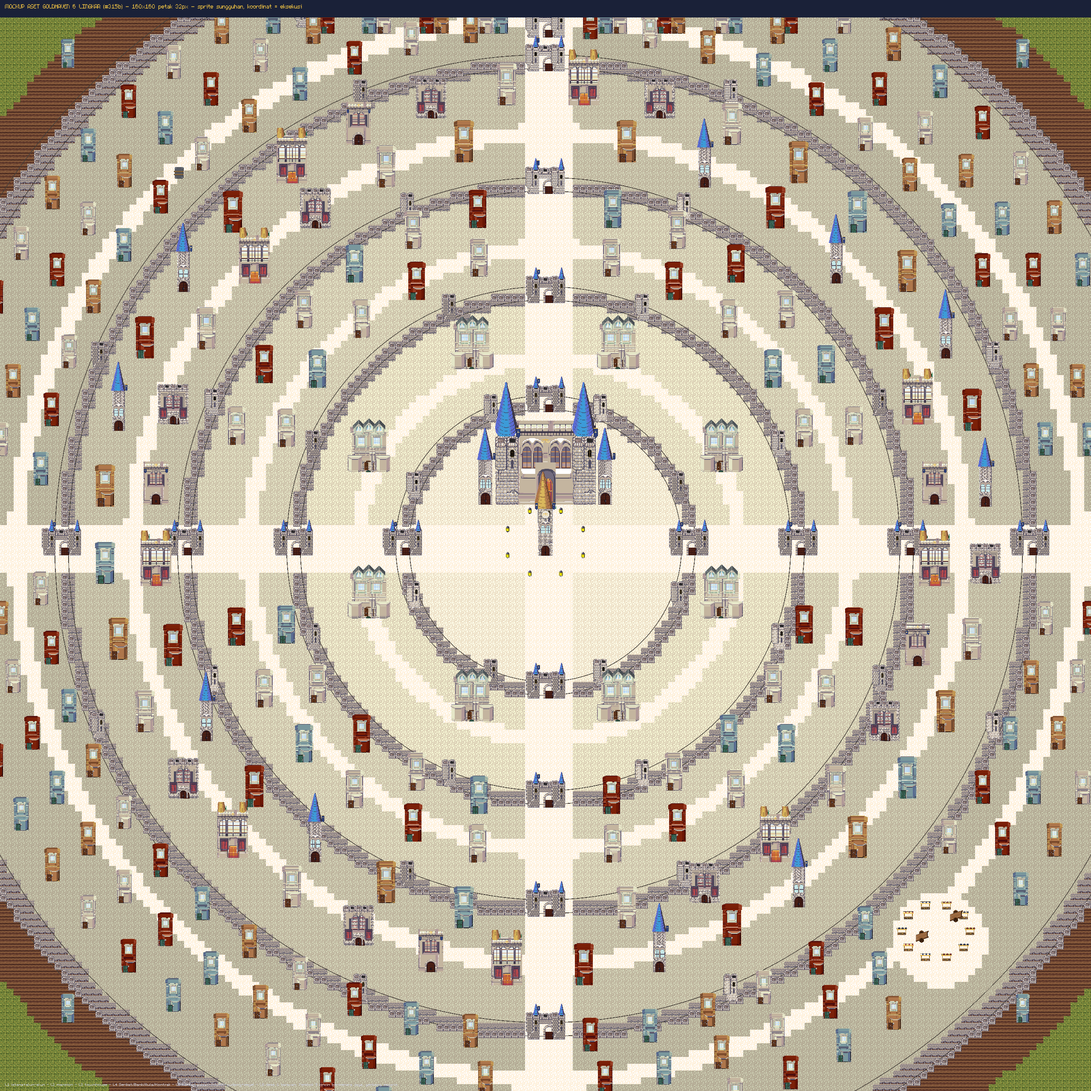
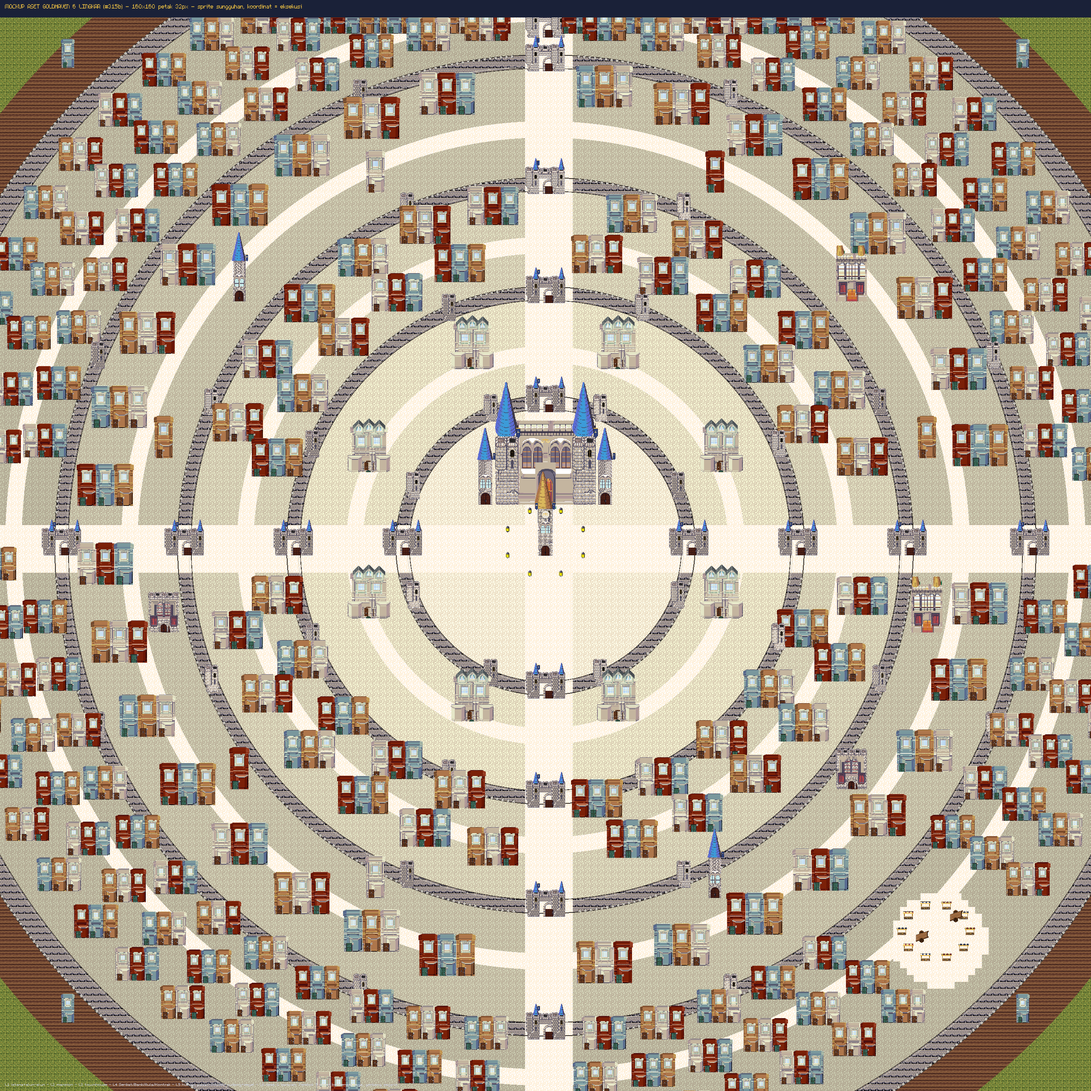
feat(#317b): mockup Goldhaven - lingkar bulat per-piksel + rowhouse menyambung
Koreksi Direktur: cincin terlihat "kotak-kotak melingkar" dan rumah
berdiri lepas-lepas.

- Tanah, jalan cincin, dan tembok kini dirender per-PIKSEL dengan mask
  ellipse (bukan per-petak 32px) - lingkaran benar-benar bulat.
- Tembok: annulus tekstur batu + tepi gelap/highlight + MERLON
  tangensial mengikuti keliling; celah hanya di jalan raya.
- Rumah disatukan: strip rowhouse 3 unit berbagi dinding (overlap 6px),
  disusun sepanjang busur tiap lingkar; gedung publik tetap berdiri
  sendiri sebagai landmark. Fasad tetap tegak - proyeksi LPC digambar
  dari depan, memiringkan fasad merusak perspektif.

Eksekusi scene menunggu ACC Direktur.

diff --git a/_tools/mockup_goldhaven_lingkar_aset.py b/_tools/mockup_goldhaven_lingkar_aset.py
@@ -123,18 +123,30 @@ def main():
 	W = N * T
 	im = Image.new("RGBA", (W, W), (0, 0, 0, 255))
 
-	# ── TANAH per lingkar (NOL dirt di dalam tembok — arahan #315) ──
-	for ty in range(N):
-		for tx in range(N):
-			d = math.hypot(tx - C, ty - C)
-			L = lingkar_dari(d)
-			if L == 6:
-				t = TN["L6"] if d <= R5 + 10 else TN["luar"]
-			else:
-				t = TN["L%d" % L]
-			if di_jalan(tx, ty) and d <= R5 + 12:
-				t = TN["jalan"]
-			im.alpha_composite(t, (tx * T, ty * T))
+	# ── TANAH per-PIKSEL (#317b): mask ellipse — lingkar BULAT sungguhan,
+	# bukan tangga 32px ("kotak-kotak melingkar", mata Direktur) ──
+	def tiled(tile):
+		tt = Image.new("RGBA", (W, W))
+		for yy in range(0, W, tile.height):
+			for xx in range(0, W, tile.width):
+				tt.paste(tile, (xx, yy))
+		return tt
+	def cakram(r_t):
+		m = Image.new("L", (W, W), 0)
+		ImageDraw.Draw(m).ellipse([C * T - r_t * T, C * T - r_t * T,
+			C * T + r_t * T, C * T + r_t * T], fill=255)
+		return m
+	im.paste(tiled(TN["luar"]), (0, 0))
+	im.paste(tiled(TN["L6"]), (0, 0), cakram(R5 + 10))
+	for r_t, kunci in [(R5, "L5"), (R4, "L4"), (R3, "L3"), (R2, "L2"), (R1, "L1")]:
+		im.paste(tiled(TN[kunci]), (0, 0), cakram(r_t))
+	# jalan raya silang lurus (per-piksel)
+	jalan_t = tiled(TN["jalan"])
+	m_j = Image.new("L", (W, W), 0)
+	dj = ImageDraw.Draw(m_j)
+	dj.rectangle([(C - LEBAR_JALAN) * T, 0, (C + LEBAR_JALAN + 1) * T, W], fill=255)
+	dj.rectangle([0, (C - LEBAR_JALAN) * T, W, (C + LEBAR_JALAN + 1) * T], fill=255)
+	im.paste(jalan_t, (0, 0), m_j)
 
 	sprites = []   # (foot_y, Image, x_kiri, y_kaki)
 	def taruh(img, cx, kaki_y, skala=1.0):
@@ -143,39 +155,51 @@ def main():
 				Image.NEAREST)
 		sprites.append((kaki_y, img, int(cx - img.width / 2), int(kaki_y - img.height)))
 
-	# ── JALAN CINCIN di tengah tiap lingkar — tulang punggung keramaian ──
+	# ── JALAN CINCIN annulus per-piksel ──
 	RING_ROAD = [(R1 + R2) / 2, (R2 + R3) / 2, (R3 + R4) / 2, (R4 + R5) / 2 - 3]
 	for rr in RING_ROAD:
-		for ty in range(N):
-			for tx in range(N):
-				d = math.hypot(tx - C, ty - C)
-				if rr - 1.2 <= d < rr + 1.2:
-					im.alpha_composite(TN["jalan"], (tx * T, ty * T))
+		m_r = Image.new("L", (W, W), 0)
+		dr_ = ImageDraw.Draw(m_r)
+		dr_.ellipse([(C - rr - 1.2) * T, (C - rr - 1.2) * T,
+			(C + rr + 1.2) * T, (C + rr + 1.2) * T], fill=255)
+		dr_.ellipse([(C - rr + 1.2) * T, (C - rr + 1.2) * T,
+			(C + rr - 1.2) * T, (C + rr - 1.2) * T], fill=0)
+		im.paste(jalan_t, (0, 0), m_r)
 
 	# ── TEMBOK 5 cincin: band ubin RAPI (tanpa jitter battlement per ubin) ──
-	# isian tembok pakai crop TENGAH (crop sudut membawa bayangan tepi ->
-	# band terbaca berkolom-kolom, mata); outline gelap dua sisi supaya
-	# tembok terbaca TEMBOK, bukan tanah abu
-	wall_fill = P["wall_batu"]
-	batt = P["battlement"]
+	# ── TEMBOK BULAT per-piksel (#317b): annulus tekstur batu + tepi gelap +
+	# merlon mengikuti keliling (tangensial) — nol tangga petak ──
+	wall_t = tiled(P["wall_batu"].crop((T, T, 2 * T, 2 * T)))
 	dd = ImageDraw.Draw(im, "RGBA")
 	for ri, r in enumerate([R1, R2, R3, R4, R5]):
 		tebal = 3 if r == R5 else 2      # tembok besar AoT paling tebal
-		for ty in range(N):
-			for tx in range(N):
-				d = math.hypot(tx - C, ty - C)
-				if r <= d < r + tebal and not di_jalan(tx, ty):
-					im.alpha_composite(wall_fill.crop((T, T, 2 * T, 2 * T)), (tx * T, ty * T))
-		for rr2, w2 in [(r, 3), (r + tebal, 3)]:
+		m_w = Image.new("L", (W, W), 0)
+		dw = ImageDraw.Draw(m_w)
+		dw.ellipse([(C - r - tebal) * T, (C - r - tebal) * T,
+			(C + r + tebal) * T, (C + r + tebal) * T], fill=255)
+		dw.ellipse([(C - r) * T, (C - r) * T, (C + r) * T, (C + r) * T], fill=0)
+		dw.rectangle([(C - LEBAR_JALAN) * T, 0, (C + LEBAR_JALAN + 1) * T, W], fill=0)
+		dw.rectangle([0, (C - LEBAR_JALAN) * T, W, (C + LEBAR_JALAN + 1) * T], fill=0)
+		im.paste(wall_t, (0, 0), m_w)
+		for rr2, warna, w2 in [(r + tebal, (58, 52, 46, 255), 4),
+				(r, (58, 52, 46, 255), 3), (r + 0.28, (214, 210, 200, 160), 2)]:
 			dd.ellipse([(C - rr2) * T, (C - rr2) * T, (C + rr2) * T, (C + rr2) * T],
-				outline=(70, 64, 58, 200), width=w2)
-		# battlement SATU baris bersih di tepi luar (bukan offset acak tiap ubin)
-		for ty in range(N):
-			for tx in range(N):
-				d = math.hypot(tx - C, ty - C)
-				if r + tebal - 0.9 <= d < r + tebal and not di_jalan(tx, ty):
-					im.alpha_composite(batt.crop((0, 0, T, batt.height)),
-						(tx * T, ty * T + 8))
+				outline=warna, width=w2)
+		kel = math.tau * (r + tebal) * T
+		n_m = int(kel / 26)
+		for k in range(n_m):
+			a = k * math.tau / n_m
+			if abs(math.cos(a)) * (r + tebal) <= LEBAR_JALAN + 1.6 \
+					or abs(math.sin(a)) * (r + tebal) <= LEBAR_JALAN + 1.6:
+				continue
+			mx0 = C * T + math.cos(a) * (r + tebal - 0.22) * T
+			my0 = C * T + math.sin(a) * (r + tebal - 0.22) * T
+			ux, uy = math.cos(a), math.sin(a)
+			vx, vy = -uy, ux
+			pts = []
+			for sx, sy in [(-6, -4), (6, -4), (6, 8), (-6, 8)]:
+				pts.append((mx0 + vx * sx + ux * sy, my0 + vy * sx + uy * sy))
+			dd.polygon(pts, fill=(196, 192, 184, 255), outline=(58, 52, 46, 255))
 		# menara jaga tiap 1/8 keliling (lewati poros jalan)
 		for k in range(8):
 			a = (k + 0.5) * math.tau / 8
@@ -205,46 +229,65 @@ def main():
 			continue
 		taruh(S["fasad_mansion"], tx * T, ty * T)
 
-	# ── LINGKAR 3: townhouse RAPAT dua baris menghadap jalan cincin ──
-	for sisi, rr in [(-1, (R2 + R3) / 2 - 3.4), (1, (R2 + R3) / 2 + 3.6)]:
-		nb = 26 if sisi < 0 else 30
-		for i in range(nb):
-			a = (i + 0.5) * math.tau / nb
+	# ── strip rowhouse: rumah DISATUKAN berbagi dinding (#317b) ──
+	def strip_rumah(kunci_list, skala=1.0):
+		imgs = [S[k] for k in kunci_list]
+		imgs = [i.resize((int(i.width * skala), int(i.height * skala)),
+			Image.NEAREST) for i in imgs]
+		w = sum(i.width for i in imgs) - 6 * (len(imgs) - 1)
+		h = max(i.height for i in imgs)
+		out = Image.new("RGBA", (w, h), (0, 0, 0, 0))
+		x = 0
+		for i in imgs:
+			out.alpha_composite(i, (x, h - i.height))
+			x += i.width - 6
+		return out
+	VAR = ["fasad_hunian_a", "fasad_hunian_c", "fasad_hunian_b", "fasad_hunian_d"]
+	def busur_strip(rr, skala, panjang, mulai=0.0):
+		kel = math.tau * rr
+		n_s = max(6, int(kel / panjang))
+		for i in range(n_s):
+			a = (i + 0.5 + mulai) * math.tau / n_s
 			tx, ty = C + math.cos(a) * rr, C + math.sin(a) * rr
-			if abs(tx - C) <= 5 or abs(ty - C) <= 5:
+			if abs(tx - C) <= 5.5 or abs(ty - C) <= 5.5:
 				continue
-			taruh(S[["fasad_hunian_a", "fasad_hunian_c", "fasad_hunian_a",
-				"fasad_hunian_b"][i % 4]], tx * T, ty * T, 0.82)
+			st = strip_rumah([VAR[(i + j) % 4] for j in range(3)], skala)
+			taruh(st, tx * T, ty * T)
+
+	# ── LINGKAR 3: dua busur rowhouse menyambung ──
+	busur_strip((R2 + R3) / 2 - 3.4, 0.82, 10.2)
+	busur_strip((R2 + R3) / 2 + 3.6, 0.82, 10.2, 0.5)
 
 	# ── LINGKAR 4: gedung publik warga elit ──
 	publik = ["fasad_bank", "fasad_aula", "fasad_kontrak", "fasad_balai_gh",
 		"fasad_hunian_a", "fasad_hunian_c", "fasad_aula", "fasad_hunian_d",
 		"fasad_kontrak", "fasad_hunian_a", "fasad_hunian_b", "fasad_hunian_c",
 		"fasad_bank", "fasad_hunian_d"]
-	for sisi, rr in [(-1, (R3 + R4) / 2 - 3.6), (1, (R3 + R4) / 2 + 3.8)]:
-		nb = 30 if sisi < 0 else 36
-		for i in range(nb):
-			a = (i + 0.5) * math.tau / nb
-			tx, ty = C + math.cos(a) * rr, C + math.sin(a) * rr
-			if abs(tx - C) <= 5 or abs(ty - C) <= 5:
-				continue
-			taruh(S[publik[(i * 3 + (0 if sisi < 0 else 1)) % len(publik)]],
-				tx * T, ty * T, 0.9)
+	# gedung publik tetap berdiri sendiri (landmark), busur rowhouse di baris luar
+	for i, key in enumerate(publik):
+		a = (i + 0.5) * math.tau / len(publik)
+		rr = (R3 + R4) / 2 - 3.6
+		tx, ty = C + math.cos(a) * rr, C + math.sin(a) * rr
+		if abs(tx - C) <= 5 or abs(ty - C) <= 5:
+			continue
+		taruh(S[key], tx * T, ty * T, 0.9)
+	busur_strip((R3 + R4) / 2 + 3.8, 0.9, 11.5, 0.5)
 
 	# ── LINGKAR 5: rakyat — hunian PADAT 3 baris (ramai!) + PASAR + gudang + segel ──
 	a = math.tau / 8
 	mx, my = C + math.cos(a) * (R4 + 11), C + math.sin(a) * (R4 + 11)
-	for baris_r in [(R4 + 4.5), (R4 + 11), (R4 + 17.5)]:
-		nb = int(baris_r * 0.72)
-		for i in range(nb):
-			aa2 = (i + 0.5) * math.tau / nb
+	for bi, baris_r in enumerate([(R4 + 4.5), (R4 + 11), (R4 + 17.5)]):
+		kel = math.tau * baris_r
+		n_s = int(kel / 8.6)
+		for i in range(n_s):
+			aa2 = (i + 0.5 + bi * 0.4) * math.tau / n_s
 			tx, ty = C + math.cos(aa2) * baris_r, C + math.sin(aa2) * baris_r
 			if abs(tx - C) <= 5 or abs(ty - C) <= 5:
 				continue
-			if math.hypot(tx - mx, ty - my) < 8.5:
+			if math.hypot(tx - mx, ty - my) < 9.5:
 				continue   # plaza pasar bersih dari hunian
-			taruh(S[["fasad_hunian_d", "fasad_hunian_b", "fasad_hunian_c",
-				"fasad_hunian_a"][(i + int(baris_r)) % 4]], tx * T, ty * T, 0.72)
+			st = strip_rumah([VAR[(i + j + bi) % 4] for j in range(3)], 0.72)
+			taruh(st, tx * T, ty * T)
 	# PASAR AGUNG tenggara — plaza terang + kios radial + gerobak
 	for ty in range(N):
 		for tx in range(N):
